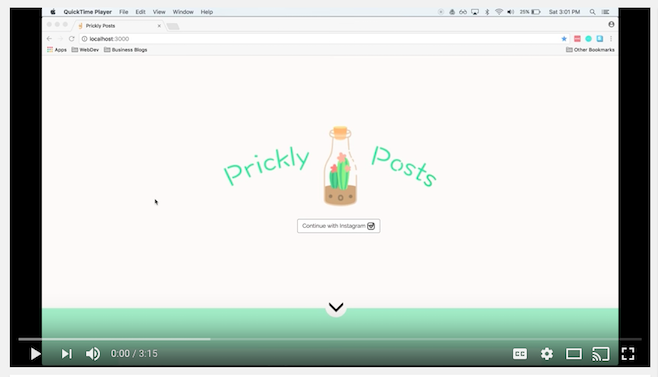
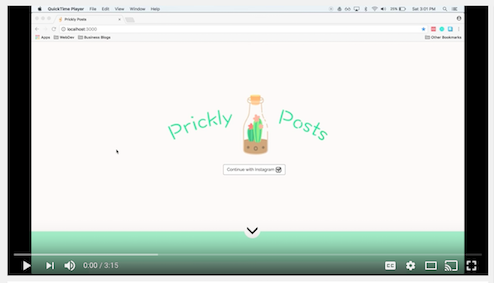
update size of walkthrough img

Changed region(s): [[0.0, 0.0283, 1.0, 0.9894], [0.9413, 0.0, 0.9717, 0.0283], [0.0304, 0.0, 0.0607, 0.0283]]

diff --git a/README.md b/README.md
@@ -2,10 +2,12 @@
 ### A digital journaling platform that makes creativity and organization accessible for everyone
 ##
 
-A video walk through of our app:
+Our current deployed version: [pricklyposts.herokuapp.com](pricklyposts.herokuapp.com)
+
+Check out a video walk through of Prickly Posts:
 [![Prickly Posts Walkthrough](client/src/img/youtube_screenshot.png)](https://www.youtube.com/watch?v=kEUcZbigSYs&t=13s)
 
-Our current deployed version: [pricklyposts.herokuapp.com](pricklyposts.herokuapp.com)
+
 
 
 * If you want to log onto Prickly Posts with Instagram, please contact us to become a sandbox user.
